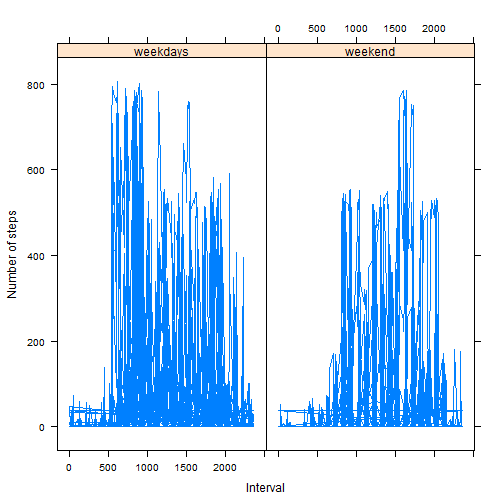
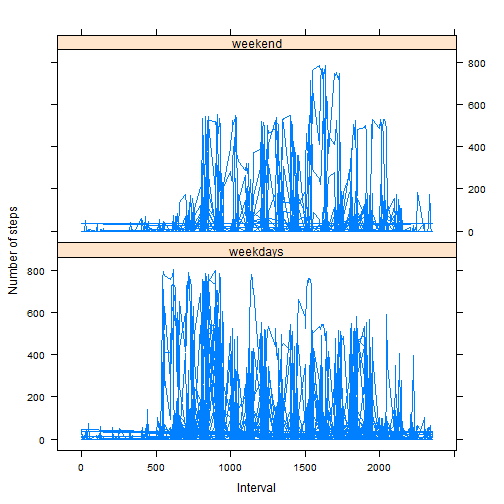
Assignment

diff --git a/PA1_template.html b/PA1_template.html
@@ -355,10 +355,10 @@ amdimpute$weeks[!(amdimpute$weekdays == &quot;Saturday&quot; | amdimpute$weekday
 
 <pre><code class="r">library(lattice)
 xyplot(steps ~ interval | weeks, data = amdimpute, type = &quot;l&quot;, xlab = &quot;Interval&quot;, 
-    ylab = &quot;Number of steps&quot;)
+    ylab = &quot;Number of steps&quot;, layout = c(1, 2))
 </code></pre>
 
[2 lines of base64/hex data omitted]
 
 </body>
 

diff --git a/PA1_template.md b/PA1_template.md
@@ -224,9 +224,11 @@ amdimpute$weeks[!(amdimpute$weekdays == "Saturday" | amdimpute$weekdays == "Sund
 ```r
 library(lattice)
 xyplot(steps ~ interval | weeks, data = amdimpute, type = "l", xlab = "Interval", 
-    ylab = "Number of steps")
+    ylab = "Number of steps", layout = c(1, 2))
 ```
 
 ![plot of chunk unnamed-chunk-17](figure/unnamed-chunk-17.png) 
+
+
 
 
